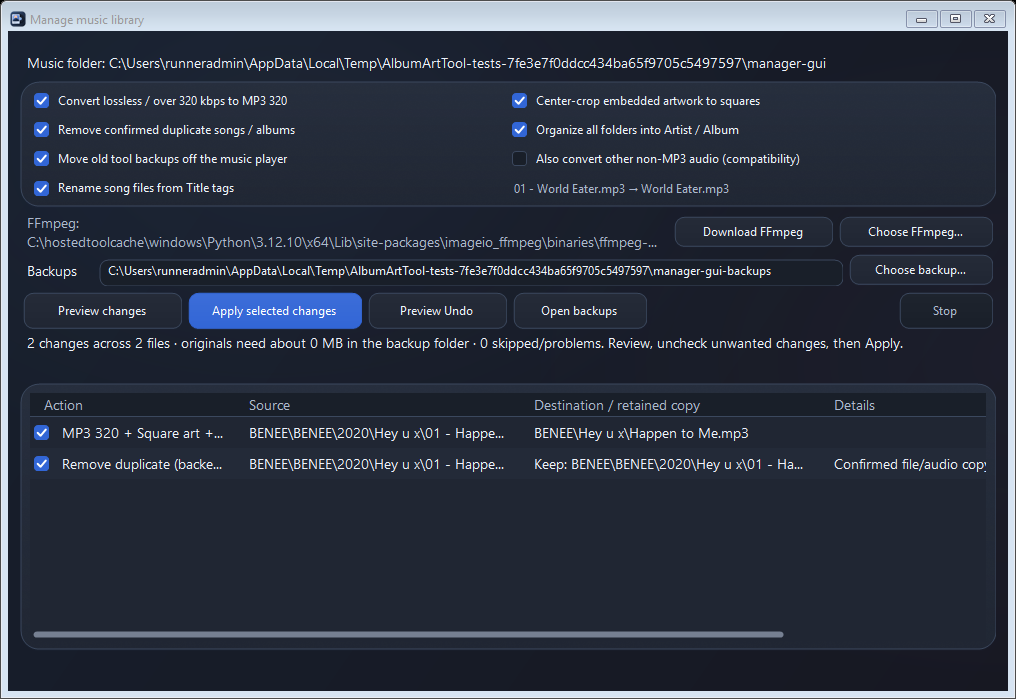
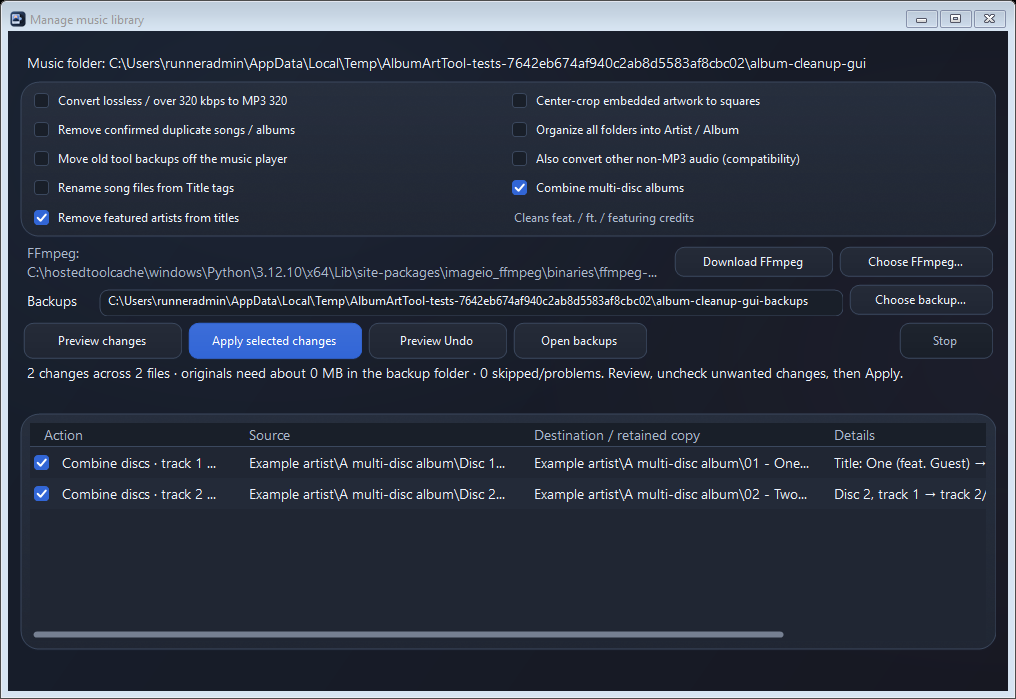
[release] v2.5.0: faster scans, gradient theme transitions and comprehensive album cleanup

Changed region(s): [[0.0305, 0.1202, 0.9764, 0.721], [0.5187, 0.0601, 0.8543, 0.1202], [0.4882, 0.1202, 0.5187, 0.2103]]

diff --git a/tests/AlbumCleanupTests.cs b/tests/AlbumCleanupTests.cs
@@ -28,7 +28,7 @@ internal static partial class Tests
         foreach (var example in examples) Assert(TitleCleanup.Clean(example.Key) == example.Value, "featured-title rule: " + example.Key);
         foreach (string extension in Directory.GetFiles(fixtures).Where(p => Scanner.Extensions.Contains(Path.GetExtension(p))).Select(Path.GetExtension))
             AlbumCleanupRoundTrip(extension);
-        ManyDiscs(); DiscTitleVariants(); CleanupWithoutTitleTags(); PartialMergeSelection();
+        ManyDiscs(); DiscTitleVariants(); CleanupWithoutTitleTags(); PartialMergeSelection(); CombinedAlbumCleanup();
     }
     private static string DiscTrack(string folder, string filename, uint disc, uint number, string title, string album = "A multi-disc album")
     {
@@ -109,6 +109,33 @@ internal static partial class Tests
         var options = Options(root, NewFolder("merge-selection-backups")); options.CombineDiscs = true;
         var plan = LibraryPlanner.Build(options, CancellationToken.None); var before = TreeHashes(root); plan.Actions.First(a => a.MergeDiscs).Selected = false;
         Assert(Throws(() => LibraryRunner.Run(plan, CancellationToken.None)) && before.All(p => CoverEditor.Hash(root + p.Key) == p.Value), "incomplete album selection is rejected before any merge changes a file");
+    }
+    private static void CombinedAlbumCleanup()
+    {
+        string root = NewFolder("combined-album-cleanup"), album = Path.Combine(root, "Nested", "A multi-disc album");
+        string first = DiscTrack(Path.Combine(album, "Disc 1"), "one.flac", 1, 1, "One (feat. Guest)");
+        string second = DiscTrack(Path.Combine(album, "Disc 2"), "two.flac", 2, 1, "Two (FT Guest)");
+        AddRectangleArt(first); AddRectangleArt(second);
+        File.Copy(second, Path.Combine(Path.GetDirectoryName(second), "two (1).flac"));
+        File.WriteAllText(Path.Combine(album, "booklet.pdf"), "A booklet"); var original = TreeHashes(root);
+        var options = Options(root, NewFolder("combined-album-cleanup-backups"));
+        options.Convert = options.Square = options.Duplicates = options.Organize = options.RenameFromTitle = options.CombineDiscs = options.RemoveFeaturedTitles = true;
+        var plan = LibraryPlanner.Build(options, CancellationToken.None);
+        Assert(plan.Actions.Count(a => a.MergeDiscs) == 2 && plan.Actions.Count(a => a.Archive) == 1 && plan.Actions.Where(a => a.MergeDiscs).All(a => a.Convert && a.Square && a.NewTitle != null),
+            "disc merging, title cleanup, cropping, conversion, organization and duplicate removal preview together");
+        var journal = LibraryRunner.Run(plan, CancellationToken.None);
+        Assert(journal.Issues.Count == 0, "all album operations run together without failed writes: " + string.Join(";", journal.Issues));
+        string target = Path.Combine(root, "Example artist", "A multi-disc album");
+        foreach (string path in Directory.GetFiles(target, "*.mp3"))
+            using (var file = TagLib.File.Create(path))
+            {
+                Assert(file.Tag.DiscCount == 1 && file.Tag.TrackCount == 2 && !file.Tag.Title.Contains("feat") && !file.Tag.Title.Contains("FT") && file.Properties.AudioBitrate >= 318,
+                    "combined output has one numbered album, clean titles and MP3 320 audio");
+                foreach (var picture in file.Tag.Pictures) using (var image = Artwork.Decode(picture.Data.Data)) Assert(image.Width == image.Height, "combined output retains all cropped embedded pictures");
+            }
+        Assert(Directory.GetFiles(target, "*.mp3").Length == 2 && File.Exists(Path.Combine(target, "booklet.pdf")), "the combined album contains only the retained songs and its booklet");
+        Assert(LibraryRunner.Undo(LibraryJournal.Last(), CancellationToken.None) == journal.Entries.Count && original.Count == TreeHashes(root).Count && original.All(p => CoverEditor.Hash(root + p.Key) == p.Value),
+            "one persistent Undo restores the exact pre-conversion, pre-merge and pre-cleanup library");
     }
     private static void AlbumCleanupGuiSmoke(string output)
     {

diff --git a/README.md b/README.md
@@ -10,13 +10,13 @@ One Windows app for album artwork, artist cleanup, MP3 conversion, duplicate rem
 
 [Light mode preview](docs/light-mode.png)
 
-The app starts in **dark mode**. Click **Light mode** in the header to switch, or **Dark mode** to switch back. Your choice is remembered on this PC and updates open tool windows immediately without interrupting work or discarding a staged cover. Both themes use rounded artwork and controls, readable text, subtle hover transitions, and frosted-style panels. The dropdowns keep native keyboard navigation with clean rounded borders. Windows 11 adds native window corners and matching title-bar colors where supported; older Windows versions use the same painted interface. No additional UI framework or runtime is required.
+The app starts in **dark mode**. Click **Light mode** in the header to switch, or **Dark mode** to switch back. Your choice is remembered on this PC and updates open tool windows immediately without interrupting work or discarding a staged cover. Switching themes uses a smooth gradient wipe across the entire window, with one coherent transition over native controls. Windows reduced-motion preferences are respected. Both themes use rounded artwork and controls, readable text, subtle hover transitions, and frosted-style panels. The dropdowns keep native keyboard navigation with clean rounded borders. Windows 11 adds native window corners and matching title-bar colors where supported; older Windows versions use the same painted interface. No additional UI framework or runtime is required.
 
 ## Use it
 
 1. Download **AlbumArtTool.exe** from Releases. Put it in the top folder of your music collection and double-click it. You can also keep it elsewhere and use **Choose folder**.
 2. The app automatically scans that folder and every subfolder.
-3. **Add missing album art** shows albums where one or more tracks lack an embedded front cover. **Change existing album art** shows albums with embedded or folder artwork.
+3. **Add missing album art** shows albums where one or more tracks lack an embedded front cover. **Change existing album art** shows albums with embedded or folder artwork. Both artwork tabs open on **All albums in this tab**, without inheriting the track-artist cleanup filter.
 4. Select an album. Online suggestions automatically search its **album title + artist name** and display cover choices inside the app.
 5. **Click a cover or its Apply this cover button to add it to the work queue.** Continue selecting other albums while covers download and save in the background. Backups and Undo work for online changes too.
 
@@ -30,6 +30,8 @@ No installer, accounts, API keys or background service. Online suggestions use t
 
 Scanning first counts supported music files using directory listings, without reading audio tags. It then shows a filling progress bar, a percentage, and an exact counter such as **2751/3867 tracks scanned**. Files that fail to open still count as checked and appear in Details. The initial counting phase can also be stopped. Disabled options keep readable text in both themes.
 
+Unchanged folders reuse their scanned tags and artwork during the current app session. File listings, sizes and modification times are checked each time; new, deleted or modified tracks and folder covers trigger a fresh folder scan. **Shift-click Rescan** to force every file to be read again. Identical embedded covers are validated once per scan rather than decoded once for every track. Backups calculate source checksums while copying, then still verify the saved backup and recheck the source before replacement. The biggest repeat-scan benefit is avoiding audio-file opens; first-scan and write speeds still depend on the source and backup drives.
+
 [Scan progress preview](docs/scanning.png) · [Background queue preview](docs/queue.png)
 
 ## Manage the whole library
@@ -41,6 +43,8 @@ Click **Manage library** in the main window. Choose any combination of:
 - **Center-crop embedded artwork to squares.** Every nonsquare embedded image is cropped from its center at its native resolution. A 1800 × 1000 image becomes 1000 × 1000; it is not stretched or scaled down to a thumbnail. Already-square pictures keep their original image bytes. JPEG input stays JPEG; other input is saved as PNG. Cropping applies to all embedded pictures, including back covers; image order, types where supported by the format, and descriptions remain. Folder images are moved with albums but are not cropped by this option.
 - **Organize all folders into Artist / Album.** The app searches every level and builds a canonical path under the selected music root from embedded album-artist/artist and album tags. It does not trust or reproduce intermediate artist, year, downloads, or redundant folders. Existing filenames are preserved unless **Rename song files from Title tags** is selected, apart from a changed `.mp3` extension after conversion and conflict suffixes when necessary. Disc subfolders are retained for identified multidisc releases. Tagged Various Artists albums stay together. Missing usable artist/album tags leave that track in place with an explanation. Empty old directories are removed after successful changes.
 - **Rename song files from Title tags.** This optional setting uses the embedded song Title as the filename: `01 - World Eater.mp3` becomes `World Eater.mp3` when the Title tag is `World Eater`. It searches every subfolder and works on its own or alongside conversion, cropping and folder organization. The existing audio extension is kept unless conversion changes it to `.mp3`. Filename-only cleanup leaves all audio, artwork and metadata bytes intact. Missing, blank or unusable Title tags keep the existing filename with an explanation; the app does not guess a title from the old filename. Characters Windows cannot use in filenames are replaced, reserved device names are prefixed with `_`, and long title components are limited to 120 characters. Conflicting names preserve both files with suffixes such as ` (2)`. Capitalization changes are supported. Review the Source and Destination columns, uncheck unwanted renames, then apply. **Preview Undo** restores the original filenames after a restart too.
+- **Combine multi-disc albums.** Opt in to detect matching Disc/CD/Disk folders, numbered disc suffixes in album names, and disc tags inside a single folder. It supports any number of discs and orders them numerically. The preview combines available songs into one album folder, renumbers tracks consecutively from 1, sets the total track count, and resets disc tags to 1 of 1. Normal numbered filenames are updated too; **Rename song files from Title tags** keeps title-only filenames when explicitly selected. Album-name disc suffixes are removed and album-artist grouping is made consistent; track artist credits stay intact. Select or clear a merge as a complete album in the preview. Matching is scoped to the album's source location so unrelated copies or releases are not combined solely because their names match. Ambiguous duplicate track numbers are reported for review. Artwork/booklets follow recognized albums, filename conflicts preserve both files, and persistent Undo restores the original files, tags and folder layout.
+- **Remove featured artists from titles.** Opt in to remove conventional `feat.`, `ft.`, and `featuring` credits, including capitalization and punctuation variants, parentheses, square/curly/full-width brackets, and trailing inline credits. Both the Title tag and filename are cleaned. Version labels such as `(Live)`, `(Remix)` and `(2014 Remaster)` remain. Artist tags are not changed by this option. Missing Title tags are left missing; a filename can be cleaned independently. Preview shows the old and new titles, avoids empty titles, resolves filename conflicts without overwriting, and keeps exact originals for Undo. It works on its own or together with disc merging and other library operations.
 - **Move old tool backups off the music player.** Old `.album-art-backups`, `.before-square-crop`, and `.covercrop-tmp-` backup files can be archived to the PC. Some players index hidden backup folders as more music, which can create apparent duplicates even when the active album itself is correct. This option is included in the preview and can be unchecked.
 
 ![Preview of combined music-library changes](docs/library-manager.png)
